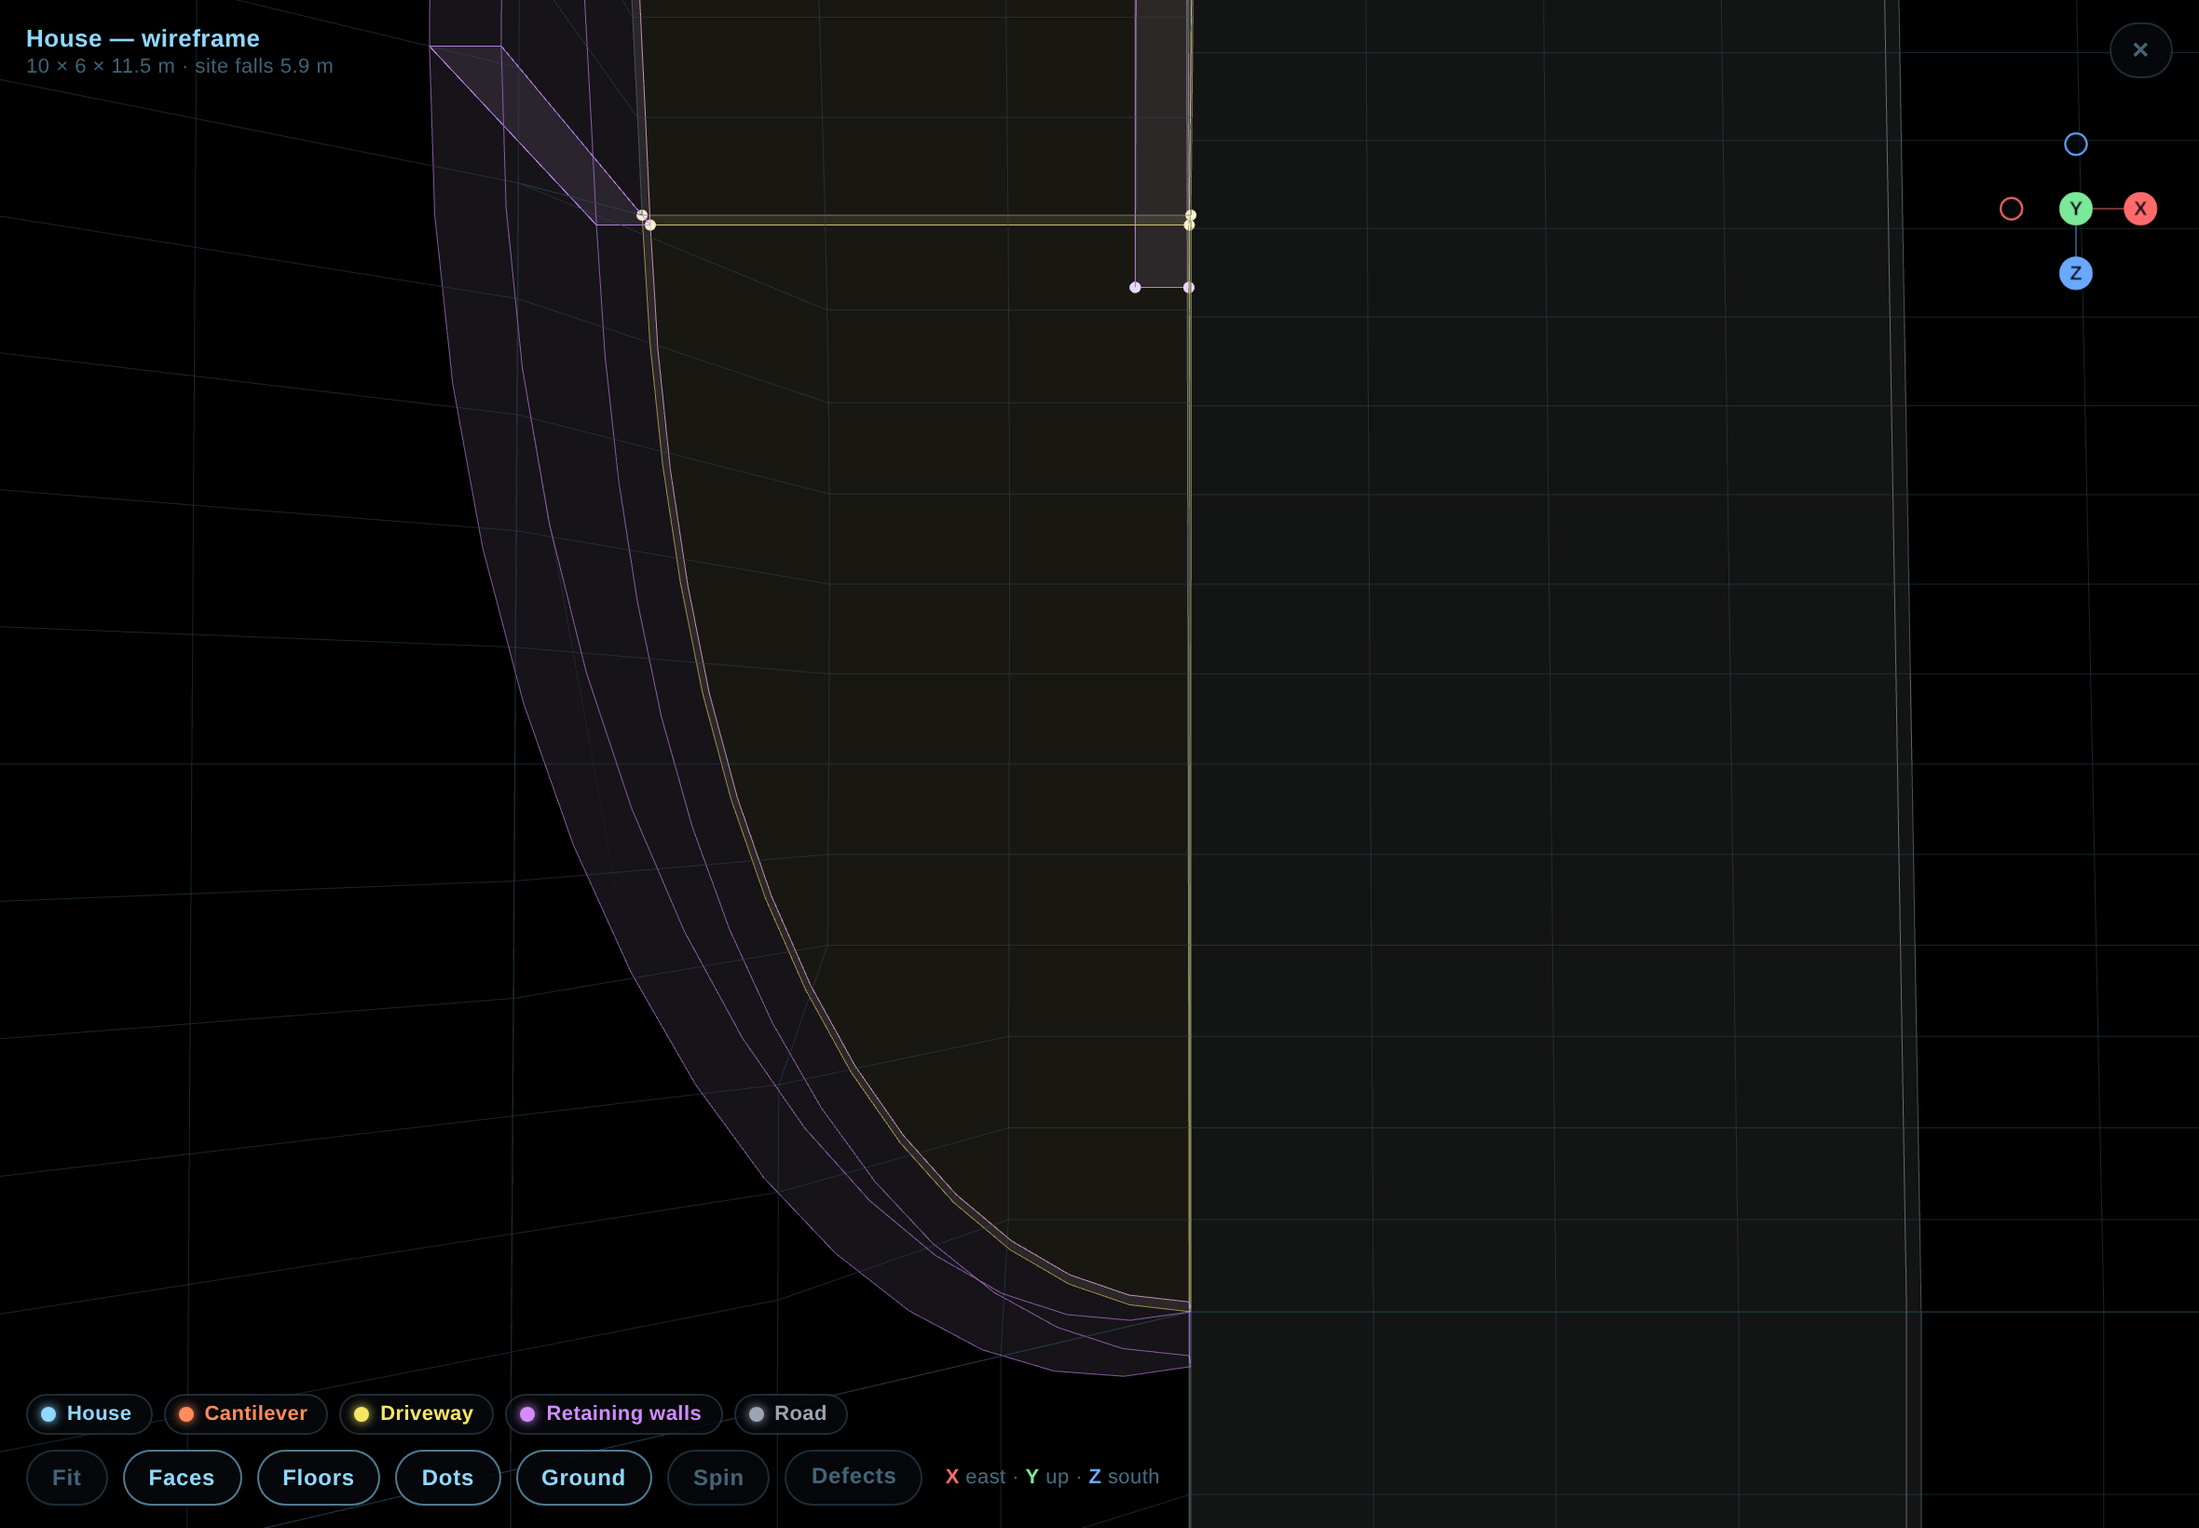
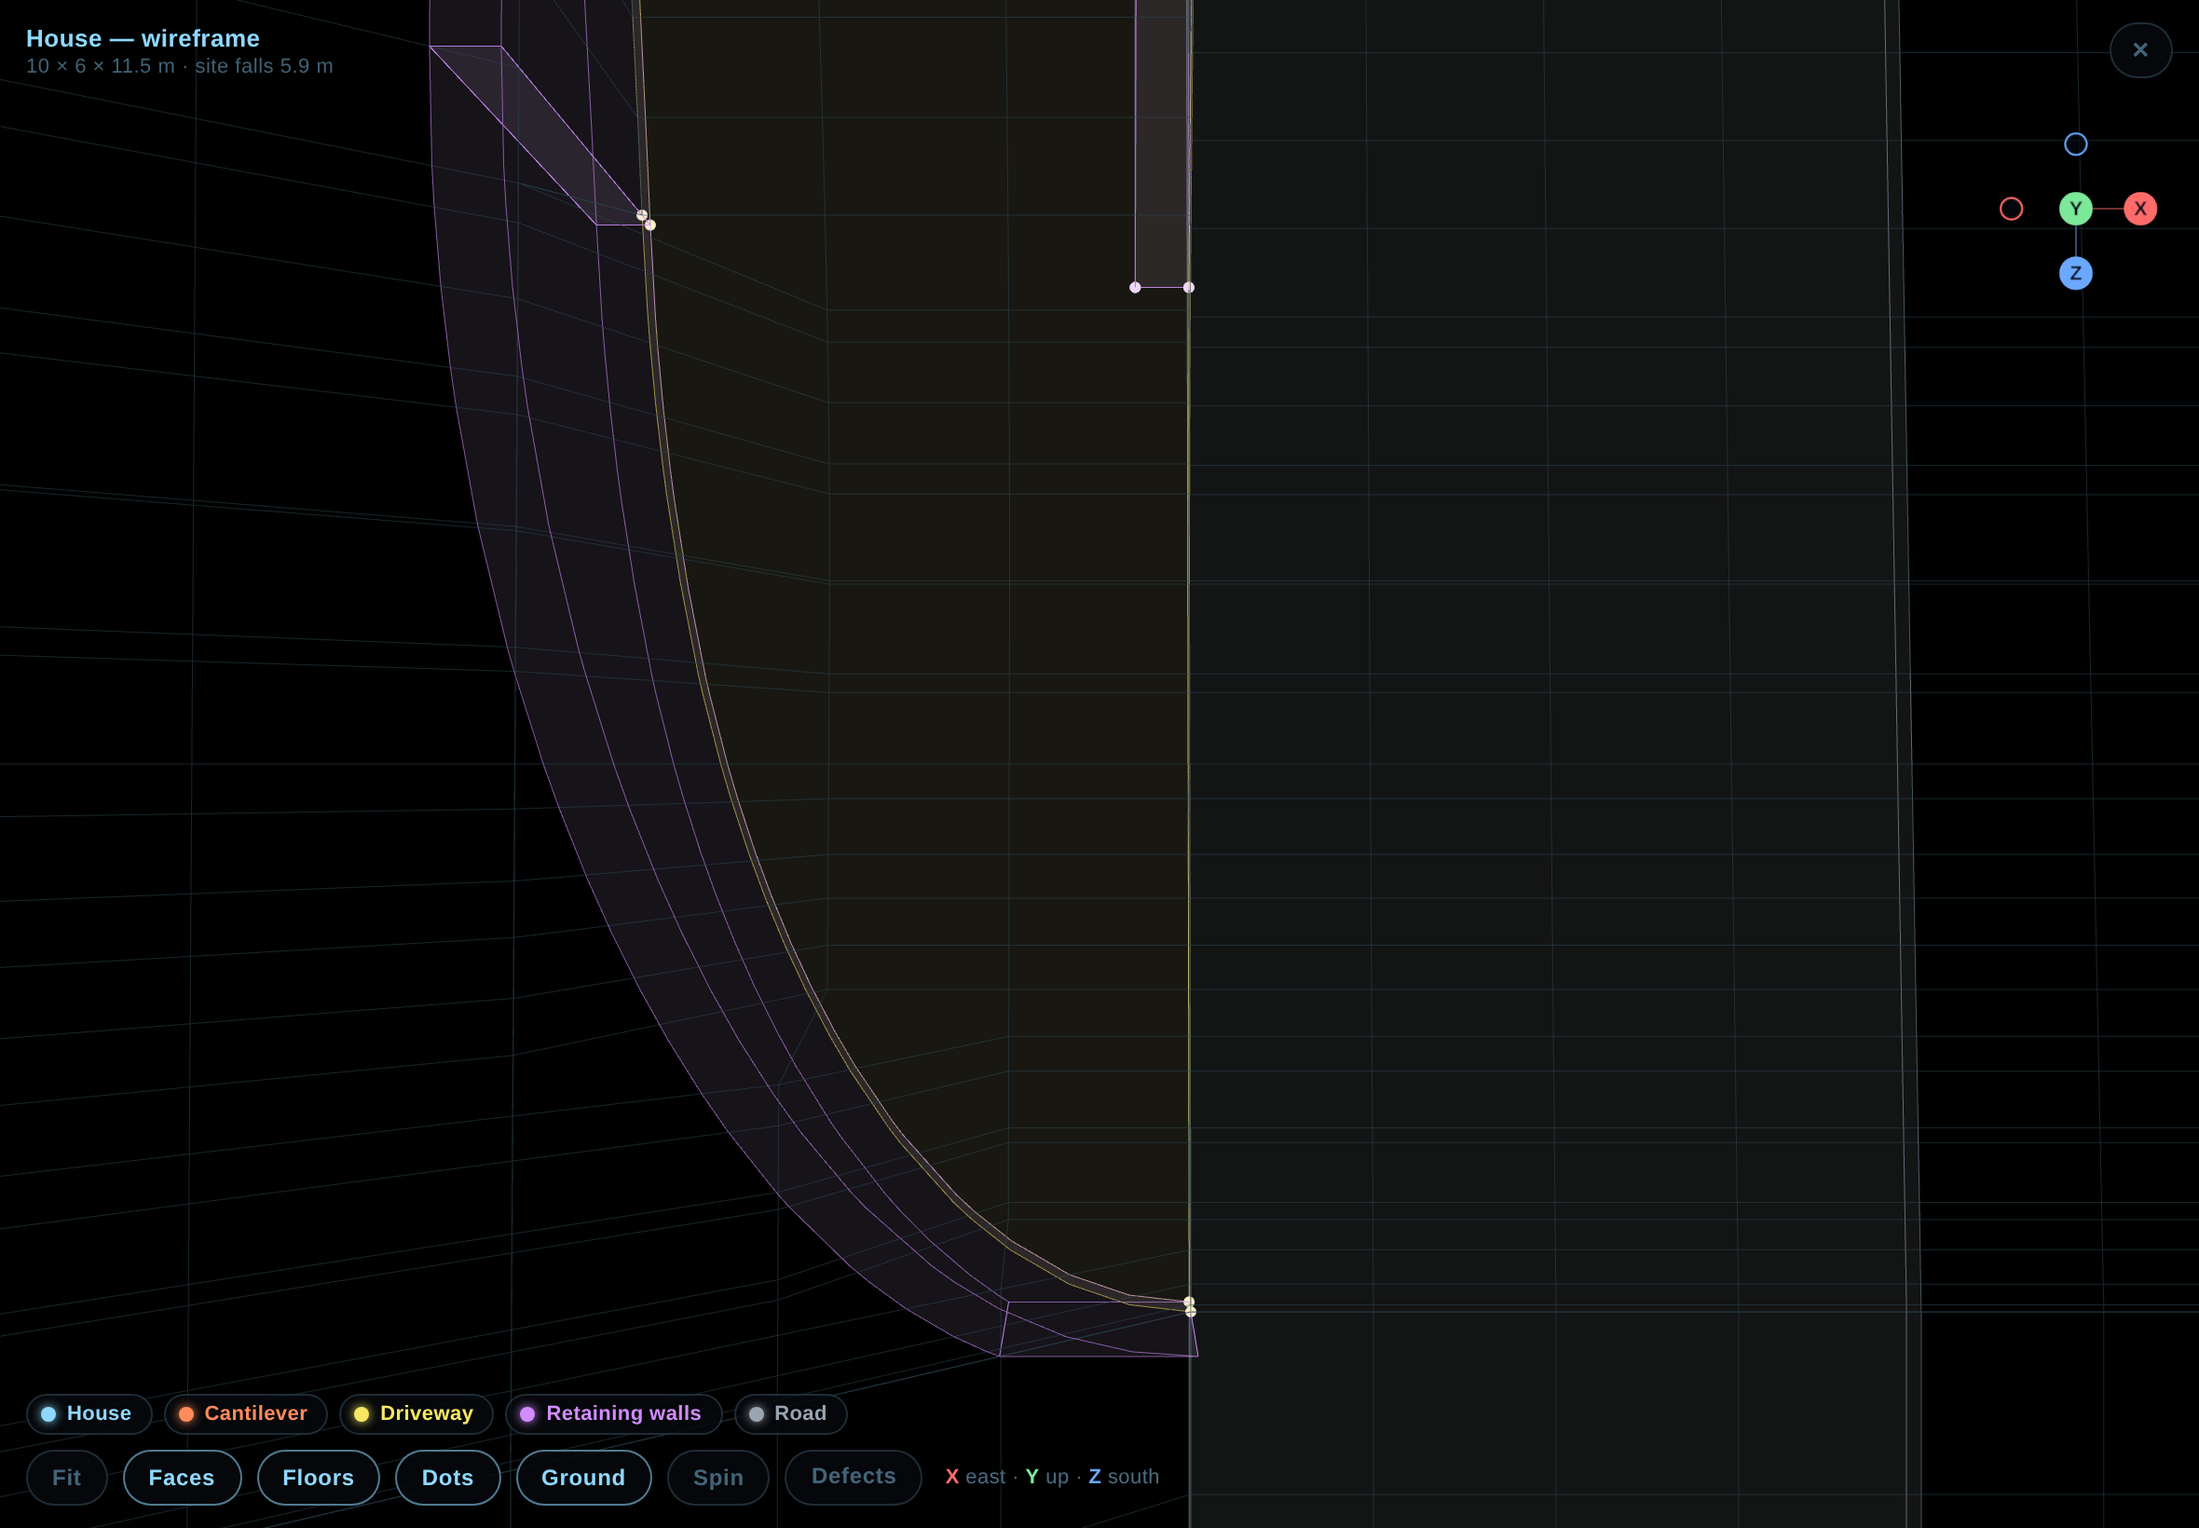
Build the whole driveway as one strip, entrance included
The mouth's floor was a flat polygon triangulated between its outline
points, so between the ramp's end and the road its edge was a straight
chord while the ramp bends and the road tilts — it lined up with neither.

The driveway is now one slab from the apron's edge to the property's end,
built on DRIVE: a shared list of stations across the front (every STEP
plus every bend of the fillet's and the mouth's arcs) and the cut line at
each — the fillet's arc, the straight run, the mouth's arc. Each band
between two stations is its own quad, so the surface follows the grade
and the road exactly. The three wall pieces use the same stations and the
same line offset into the hill, and the ground grid over the driveway
samples at them too, so every edge that should coincide does.

Claude-Session: https://claude.ai/code/session_01DNnxkDEYnqzzdbRRF1XJDk

Changed region(s): [[0.4331, 0.8396, 0.5568, 0.9018]]

diff --git a/apps/houseplan/app.js b/apps/houseplan/app.js
@@ -200,6 +200,44 @@ function rampLevel(across) {
   return base - (base - roadLevel(r.to)) * rampT(across);
 }
 
+/* The driveway's outline, station by station across the front from the
+   apron's edge to the property's end: `edge(c)` is the cut line — the
+   fillet's arc, then the straight run `dFrom` out, then the mouth's arc
+   — and `edge(c, off)` the same line `off` metres into the hill, which is
+   where a wall's far face goes. The stations are every STEP plus every
+   bend of both arcs, and everything that follows the driveway (its slab,
+   the walls beside it, the ground grid) is built on exactly these, so
+   their lines coincide. */
+const DRIVE = (() => {
+  if (!CUT?.ramp) return null;
+  const r = CUT.ramp, dFrom = r.dFrom ?? 0;
+  const set = new Set();
+  for (let a = r.from; a < CUT.to - 1e-6; a += STEP) set.add(+a.toFixed(6));
+  set.add(CUT.to);
+  set.add(r.to);
+  if (FILLET) {
+    set.add(FILLET.centre.across);
+    for (let i = 0; i <= 12; i++) set.add(+(FILLET.centre.across - FILLET.r * Math.cos((i / 12) * (Math.PI / 2))).toFixed(6));
+  }
+  if (MOUTH) {
+    set.add(MOUTH.across0);
+    for (let i = 0; i <= 14; i++) set.add(+(MOUTH.across0 + MOUTH.b * Math.sin((i / 14) * (Math.PI / 2))).toFixed(6));
+  }
+  const stations = [...set].filter((c) => c >= r.from - 1e-9 && c <= CUT.to + 1e-9).sort((a, b) => a - b);
+  const edge = (c, off = 0) => {
+    if (FILLET && c < FILLET.centre.across) {
+      const rad = FILLET.r - off, dc = dFrom - FILLET.r;
+      return dc + Math.sqrt(Math.max(0, rad * rad - (c - FILLET.centre.across) ** 2));
+    }
+    if (MOUTH && c > MOUTH.across0) {
+      const u = (c - MOUTH.across0) / (MOUTH.b + off);
+      return MOUTH.d0 - (MOUTH.a + off) * Math.sqrt(Math.max(0, 1 - u * u));
+    }
+    return dFrom - off;
+  };
+  return { stations, edge, outer: WALL_D, dFrom };
+})();
+
 function groundY(x, z) {
   if (!TER) return BOX.y0;
   const along = FRONT.axis === 'x' ? x : z;
@@ -298,11 +336,21 @@ async function boot() {
      ring of [x, y, z], same length, same order. Uprights join them,
      the rings are the plates, and the glass is the caps (triangulated,
      so a footprint may be concave — the fillet is) plus the sides. */
-  function addVolume(o, bottom, top, { dots: withDots = true, uprightAt = null } = {}) {
+  function addVolume(o, bottom, top, { dots: withDots = true, uprightAt = null, strip = false } = {}) {
     const n = bottom.length;
     const pos = [...bottom.flat(), ...top.flat()];
     const idx = [];
-    const tris = THREE.ShapeUtils.triangulateShape(bottom.map(([x, , z]) => new THREE.Vector2(x, z)), []);
+    /* A `strip` ring is two chains of equal length, the second reversed,
+       and its caps are the quads between matching stations — so a
+       surface that bends along the chains is drawn band by band, not
+       as whatever triangles happen to span the outline. */
+    const tris = [];
+    if (strip) {
+      const m = n / 2;
+      for (let j = 0; j < m - 1; j++) tris.push([j, j + 1, n - 2 - j], [j, n - 2 - j, n - 1 - j]);
+    } else {
+      tris.push(...THREE.ShapeUtils.triangulateShape(bottom.map(([x, , z]) => new THREE.Vector2(x, z)), []));
+    }
     for (const [a, b, c] of tris) idx.push(a, b, c, a + n, b + n, c + n);
     for (let i = 0; i < n; i++) {
       const j = (i + 1) % n;
@@ -388,90 +436,58 @@ async function boot() {
     );
   }
 
-  /* ── the driveway's derived pieces ──────────────────── */
+  /* ── the driveway, derived ──────────────────────────── */
 
-  /* The uphill side of the driveway is one wall line from the house's
-     corner to the road: the fillet's arc, a straight run, the mouth's
-     arc. Each piece is a WALL-thick band on the hill side of the cut
-     line, its foot at the slab's underside and its top at the natural
-     ground — read once, at the hill-side face, so the top is level
-     across the thickness. The floors are the cut itself, SLAB deep. */
+  /* One slab from the apron's edge to the road, built station by
+     station on DRIVE: its outer edge along the retaining wall, its inner
+     edge the cut line — the fillet's arc round from the house's corner,
+     the straight run, the mouth's arc out to the road. Each band between
+     two stations is drawn as its own quad, so the slab bends exactly
+     with the grade and the road under it. The uphill wall is the same
+     line in three pieces — fillet, straight run, mouth — each a
+     WALL-thick band on the hill side, its foot at the slab's underside
+     and its top the natural ground read at the hill-side face, so it is
+     level across its thickness. */
   const toXZ = (along, across) => (FRONT.axis === 'x' ? [along, across] : [across, along]);
   const atD = (d, across) => toXZ(FACE + FRONT.sign * d, across);
   const pt = (xz, y) => [xz[0], y, xz[1]];
-  /* A band between the cut edge and its hill-side twin, both lists of
-     (d, across) in the same order. */
-  function addBand(id, name, cutEdge, hillEdge, uprights) {
-    const n = cutEdge.length;
-    const ring = [...cutEdge, ...hillEdge.slice().reverse()];
-    const top = (i) => natural(hillEdge[i][0], hillEdge[i][1]);
-    addVolume(
-      makeObject({ id, name, group: 'wall' }),
-      ring.map(([d, c]) => pt(atD(d, c), rampLevel(c) - SLAB)),
-      ring.map(([d, c], k) => pt(atD(d, c), top(k < n ? k : 2 * n - 1 - k))),
-      { dots: false, uprightAt: uprights ?? [0, n - 1, n, 2 * n - 1] },
-    );
-  }
 
-  /* The fillet's arc in (d, across), from the house's corner round to
-     the ramp's uphill edge. */
-  const filletArc = (rad, N = 12) => Array.from({ length: N + 1 }, (_, i) => {
-    const th = (i / N) * (Math.PI / 2);
-    const { centre } = FILLET;
-    return [(centre.along + FRONT.sign * rad * Math.sin(th) - FACE) * FRONT.sign, centre.across - rad * Math.cos(th)];
-  });
+  if (DRIVE) {
+    const { stations, edge, outer } = DRIVE;
+    const m = stations.length;
+    const ring = [...stations.map((c) => [outer, c]), ...stations.slice().reverse().map((c) => [edge(c), c])];
+    const at = (c) => stations.indexOf(c);
+    const corners = [0, m - 1, 2 * m - 1];
+    if (FILLET) corners.push(2 * m - 1 - at(FILLET.centre.across));
+    if (MOUTH) corners.push(2 * m - 1 - at(MOUTH.across0));
+    const o = makeObject({ id: 'driveway-ramp', name: 'Driveway, down to the road', group: 'drive' });
+    const bottom = ring.map(([d, c]) => pt(atD(d, c), rampLevel(c) - SLAB));
+    const top = ring.map(([d, c]) => pt(atD(d, c), rampLevel(c)));
+    addVolume(o, bottom, top, { dots: false, uprightAt: corners, strip: true });
+    for (const i of corners) o.dotPos.push(...bottom[i], ...top[i]);
 
-  /* The ramp is one slab: the straight run from the apron to the
-     mouth, with the fillet's corner as part of its own outline — its
-     outer edge along the wall, its inner edge along the uphill wall
-     down to where the fillet's arc takes over and swings back to the
-     house's corner, then the apron's edge closes it. */
-  if (CUT?.ramp) {
-    const dFrom = CUT.ramp.dFrom ?? 0;
-    const from = CUT.ramp.from;
-    const to = MOUTH ? MOUTH.across0 : CUT.to;
-    const outer = stationsBetween(from, to).map((c) => [WALL_D, c]);
-    const inner = stationsBetween(FILLET ? FILLET.centre.across : from, to).reverse().map((c) => [dFrom, c]);
-    const bend = FILLET ? filletArc(FILLET.r).reverse().slice(1) : [];
-    const ring = [...outer, ...inner, ...bend];
-    addVolume(
-      makeObject({ id: 'driveway-ramp', name: 'Driveway, down the hill', group: 'drive' }),
-      ring.map(([d, c]) => pt(atD(d, c), rampLevel(c) - SLAB)),
-      ring.map(([d, c]) => pt(atD(d, c), rampLevel(c))),
-      { dots: false, uprightAt: [0, outer.length - 1, outer.length, outer.length + inner.length - 1, ring.length - 1] },
-    );
-
-    /* The uphill wall line: the fillet's arc, then the straight run to
-       the mouth's start (or the property's end). */
-    if (FILLET) addBand('fillet-wall', 'Corner fillet, wall', filletArc(FILLET.r), filletArc(FILLET.r - WALL));
-    const wallFrom = FILLET ? FILLET.centre.across : Math.max(from, HOUSE_EDGE);
-    if (to > wallFrom + 1e-6) {
-      const steps = stationsBetween(wallFrom, to);
-      addBand(
-        'ramp-wall', 'Retaining wall, uphill side',
-        steps.map((c) => [dFrom, c]),
-        steps.map((c) => [dFrom - WALL, c]),
-        [0, steps.length - 1, steps.length, 2 * steps.length - 1],
+    /* The wall, in its three pieces, over the stations each one spans. */
+    const pieces = [];
+    const arcEnd = FILLET ? FILLET.centre.across : null;
+    const mouthStart = MOUTH ? MOUTH.across0 : null;
+    if (FILLET) pieces.push(['fillet-wall', 'Corner fillet, wall', (c) => c <= arcEnd]);
+    pieces.push(['ramp-wall', 'Retaining wall, uphill side', (c) => (arcEnd == null || c >= arcEnd) && (mouthStart == null || c <= mouthStart)]);
+    if (MOUTH) pieces.push(['mouth-wall', 'Entrance mouth, wall', (c) => c >= mouthStart]);
+    for (const [id, name, within] of pieces) {
+      const st = stations.filter(within);
+      if (st.length < 2) continue;
+      const n = st.length;
+      const cut = st.map((c) => [edge(c), c]);
+      const hill = st.map((c) => [edge(c, WALL), c]);
+      const wallRing = [...cut, ...hill.slice().reverse()];
+      const topAt = (k) => { const [d, c] = hill[k < n ? k : 2 * n - 1 - k]; return natural(d, c); };
+      addVolume(
+        makeObject({ id, name, group: 'wall' }),
+        wallRing.map(([d, c]) => pt(atD(d, c), rampLevel(c) - SLAB)),
+        wallRing.map(([d, c], k) => pt(atD(d, c), topAt(k))),
+        { dots: false, uprightAt: [0, n - 1, n, 2 * n - 1], strip: true },
       );
     }
-  }
-
-  if (MOUTH) {
-    const { a, b, d0, across0 } = MOUTH;
-    const arc = (ra, rb, N = 14) => Array.from({ length: N + 1 }, (_, i) => {
-      const th = (i / N) * (Math.PI / 2);
-      return [d0 - ra * Math.cos(th), across0 + rb * Math.sin(th)];
-    });
-
-    const floorRing = [[d0, across0], ...arc(a, b)];
-    addVolume(
-      makeObject({ id: 'mouth-floor', name: 'Entrance mouth, floor', group: 'drive' }),
-      floorRing.map(([d, c]) => pt(atD(d, c), rampLevel(c) - SLAB)),
-      floorRing.map(([d, c]) => pt(atD(d, c), rampLevel(c))),
-      { dots: false, uprightAt: [0, 1, floorRing.length - 1] },
-    );
-    const edge = arc(a, b);
-    addBand('mouth-wall', 'Entrance mouth, wall', edge, arc(a + WALL, b + WALL), [0, edge.length - 1, edge.length, 2 * edge.length - 1]);
   }
 
   /* The dots ride with their object, a shade lighter than its lines. */
@@ -533,10 +549,9 @@ async function boot() {
     }
     if (CUT) across.push(CUT.from - 0.001, CUT.from, CUT.to, CUT.to + 0.001);
     if (CUT?.ramp) {
-      /* Over the driveway the grid runs at the slabs' own stations, so
-         its lines and the slab edges are one polyline. */
-      for (let a = CUT.ramp.from; a < CUT.to + 1e-6; a += STEP) if (!across.includes(a)) across.push(a);
-      for (const a of [CUT.ramp.to, MOUTH?.across0]) if (a != null && !across.includes(a)) across.push(a);
+      /* Over the driveway the grid runs at the slab's own stations, so
+         its lines and the slab's edges are one polyline. */
+      for (const a of DRIVE.stations) if (!across.includes(a)) across.push(a);
       const p = FACE + FRONT.sign * (CUT.ramp.dFrom ?? 0);
       along.push(p - FRONT.sign * 0.001, p);
     }

diff --git a/apps/houseplan/defects.html b/apps/houseplan/defects.html
@@ -83,7 +83,7 @@
     <div class="legend">
       <span class="chip" style="--c: #8fd8ff"><i></i>House — garage, ground, first</span>
       <span class="chip" style="--c: #ff8c5a"><i></i>Cantilever — canopy</span>
-      <span class="chip" style="--c: #f5e663"><i></i>Driveway — apron, ramp (one slab, the fillet corner included), mouth floor</span>
+      <span class="chip" style="--c: #f5e663"><i></i>Driveway — apron, ramp (one slab from the apron to the road, fillet and mouth included)</span>
       <span class="chip" style="--c: #d28cff"><i></i>Retaining walls — outer wall, its taper, fillet wall, uphill wall, mouth wall</span>
       <span class="chip" style="--c: #9aa4b2"><i></i>Road</span>
     </div>

diff --git a/apps/houseplan/DEFECTS.md b/apps/houseplan/DEFECTS.md
@@ -17,7 +17,7 @@ Every built thing is its own object, coloured by group (`plan.js` →
 |---|---|---|
 | House | cyan | garage, ground, first |
 | Cantilever | orange | canopy |
-| Driveway | yellow | driveway (apron), driveway-ramp (one slab, the fillet corner included), mouth-floor |
+| Driveway | yellow | driveway (apron), driveway-ramp (one slab from the apron to the road, fillet and mouth included) |
 | Retaining walls | violet | retainer, retainer-ramp, fillet-wall, ramp-wall, mouth-wall |
 | Road | grey | road |
 
@@ -95,3 +95,6 @@ fix.
   (branch, unmerged).
 - The ramp is one derived slab, the fillet's corner part of its outline
   rather than a separate sliver (branch, unmerged).
+- The whole driveway — ramp, fillet, mouth and landing — is one strip built
+  station by station, so the entrance surface follows the grade and the road
+  exactly instead of spanning them with flat triangles (branch, unmerged).
